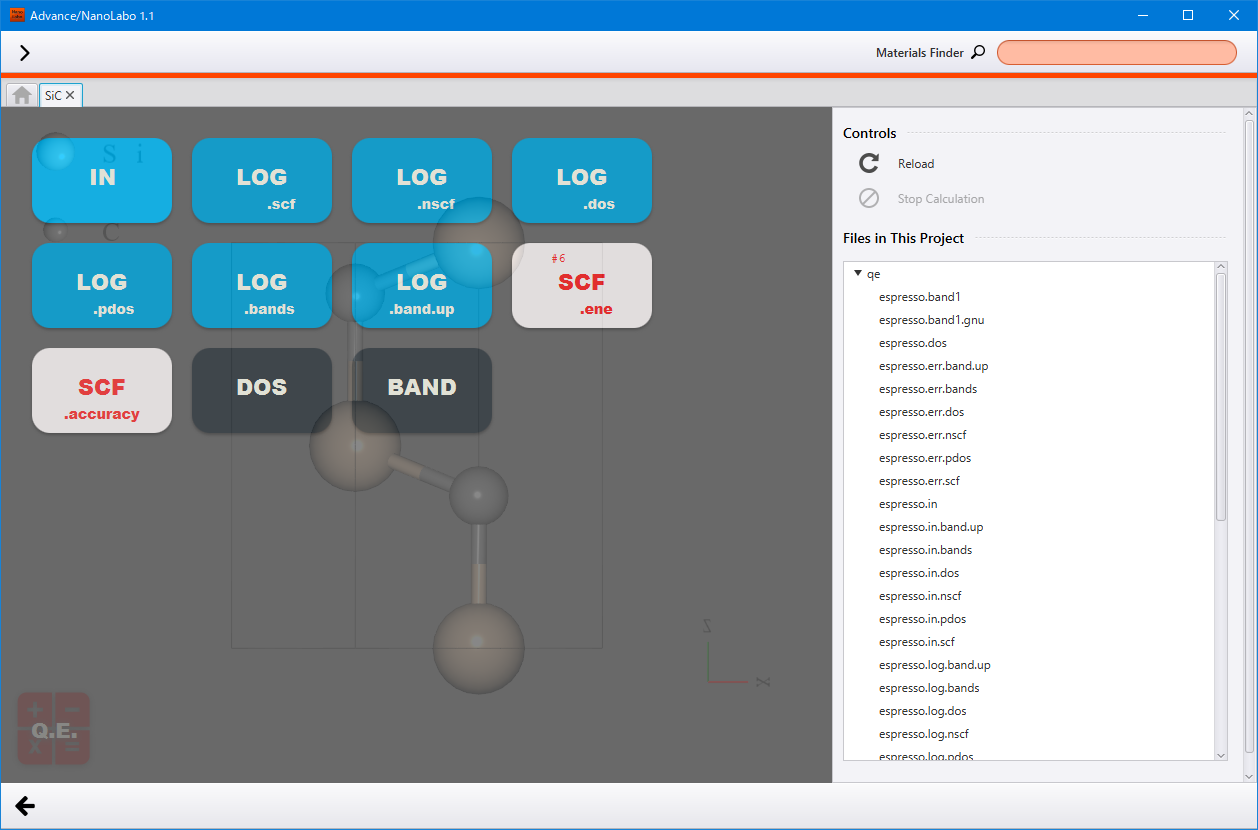
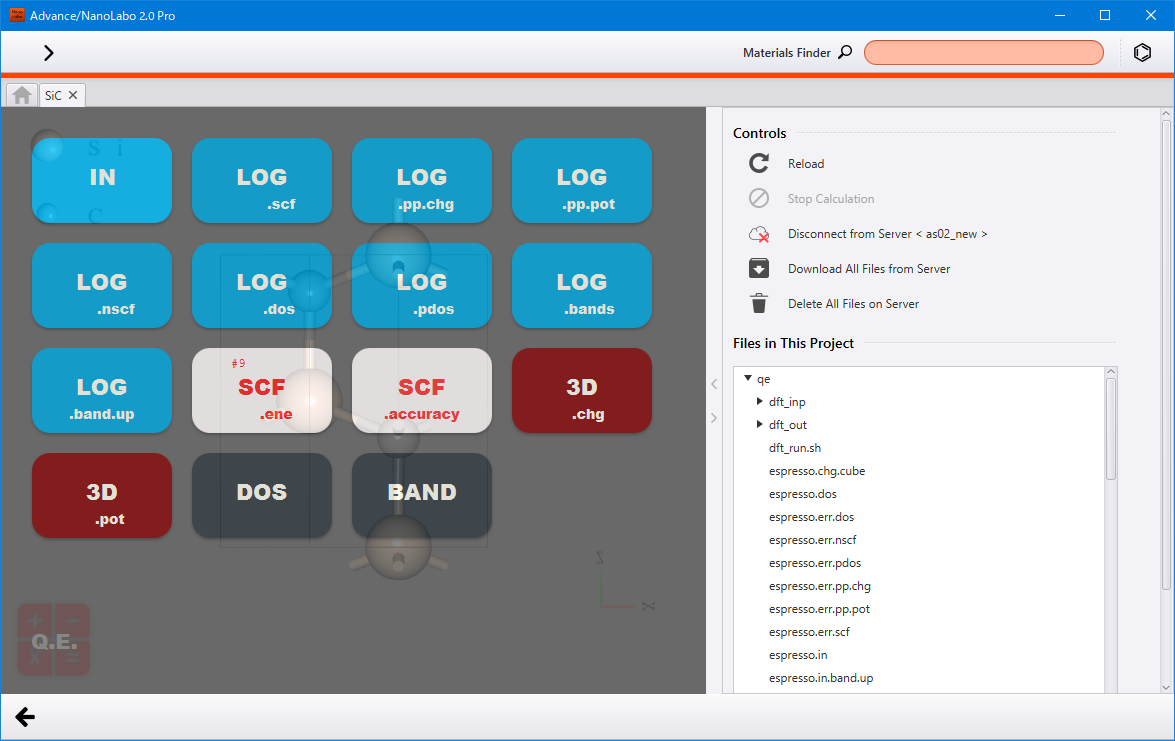
modify result.rst

diff --git a/docs/source/usage/result.rst b/docs/source/usage/result.rst
@@ -4,7 +4,7 @@
 結果表示
 =================
 
-計算を実行したプロジェクトのタブを開くと、表示可能な計算結果がタイル状に一覧表示されます。（プロジェクト画面で入力ファイルエディターが表示されている場合は、まず左下のメニュー |projectmenuicon| から :guilabel:`Result` をクリックしてください。）
+計算を実行したプロジェクトのタブを開くと、表示可能な計算結果がタイル状に一覧表示されます。（結果画面が表示されていない場合は、まず左下のメニュー |projectmenuicon| から :guilabel:`Result` をクリックしてください。）
 
 .. |projectmenuicon| image:: /img/projectmenuicon.png
 
@@ -14,7 +14,18 @@
 
 .. image:: /img/result.png
 
-リモートのサーバーで計算を実行している場合、結果表示画面が出ている間はリアルタイムでアクセスを行い、結果を取得しています。右側のパネルにある :guilabel:`Disconnect from Server` アイコンをクリックすると、アクセスを一時停止します。自動的にダウンロードされるのは可視化に必要なファイルのみですが、 :guilabel:`Download All Files from Server` アイコンをクリックするとそのプロジェクトの全てのファイルをダウンロードします。また、サーバーのファイル容量が問題になる場合には、ダウンロード後に :guilabel:`Delete All Files on Server` を使って削除できます。
+リモートのサーバーで計算を実行している場合、結果表示画面が出ている間はリアルタイムでアクセスを行い、結果を取得しています。
+
+右側のパネルにある |disconnect| :guilabel:`Disconnect from Server` アイコンをクリックすると、アクセスを一時停止します。自動的にダウンロードされるのは可視化に必要なファイルのみですが、 |download| :guilabel:`Download All Files from Server` アイコンをクリックするとそのプロジェクトの全てのファイルをダウンロードします。また、サーバーのファイル容量が問題になる場合には、ダウンロード後に |delete| :guilabel:`Delete All Files on Server` を使って削除できます。
+
+.. |disconnect| image:: /img/disconnect.png
+.. |download| image:: /img/download.png
+.. |delete| image:: /img/delete.png
+
+:doc:`SSHサーバーの設定<sshserver>`\ で常時オフラインモードに設定している場合、結果画面を開いた時点でアクセスを一時停止した状態になっています。この状態でも、 :guilabel:`Download Time` を設定していれば、その間隔でファイルの取得が行われます。取得中は、ダウンロード中を表すアイコン |download_loading| |delete_loading| に変化します。
+
+.. |download_loading| image:: /img/download_loading.png
+.. |delete_loading| image:: /img/delete_loading.png
 
 .. _plot:
 
@@ -39,6 +50,24 @@
 .. image:: /img/dos.png
 
 .. image:: /img/band.png
+
+.. _3d:
+
+3D表示
+=======================
+
+:guilabel:`3D` の各ボタンをクリックすると、SCF計算結果の電荷密度・ポテンシャル・（スピンを有効にしている場合）スピン偏極の空間分布が3D表示できます。
+
+.. image:: /img/3dviewer.png
+
+等値面(Isosurface)、点の集合(Cloud)での可視化が可能です。右側パネルには可視化オブジェクトの一覧が表示され、 |eye| で表示／非表示の切り替え、 |edit| で表示の詳細設定を行います。 |add| と |remove| でオブジェクトの追加と削除を行います。
+
+.. |eye| image:: /img/eye.png
+.. |edit| image:: /img/edit.png
+.. |add| image:: /img/add.png
+.. |remove| image:: /img/remove.png
+
+:guilabel:`Referential Data` のボタンをクリックし、あらかじめ計算したデータ（プロジェクト／cubeファイル）を選択することで、差分の表示が可能です。データのメッシュ分割数は一致している必要があります。データを2つ設定すると、2つとも差し引いた値（元データ - #1 - #2）を表示します。
 
 .. _movie:
 
